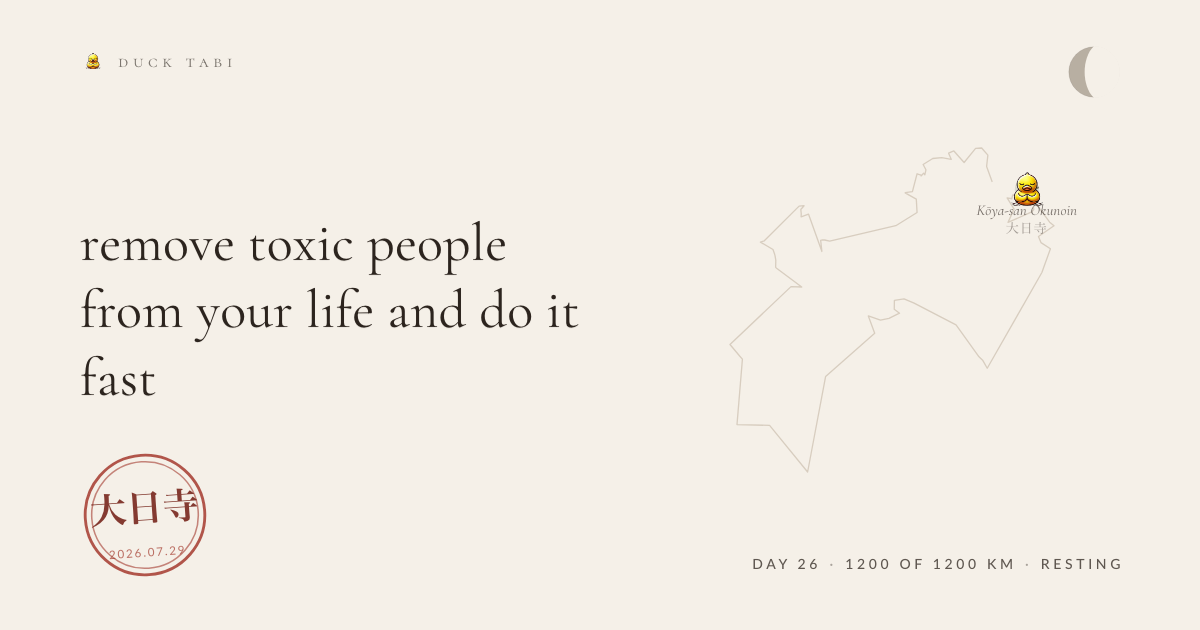
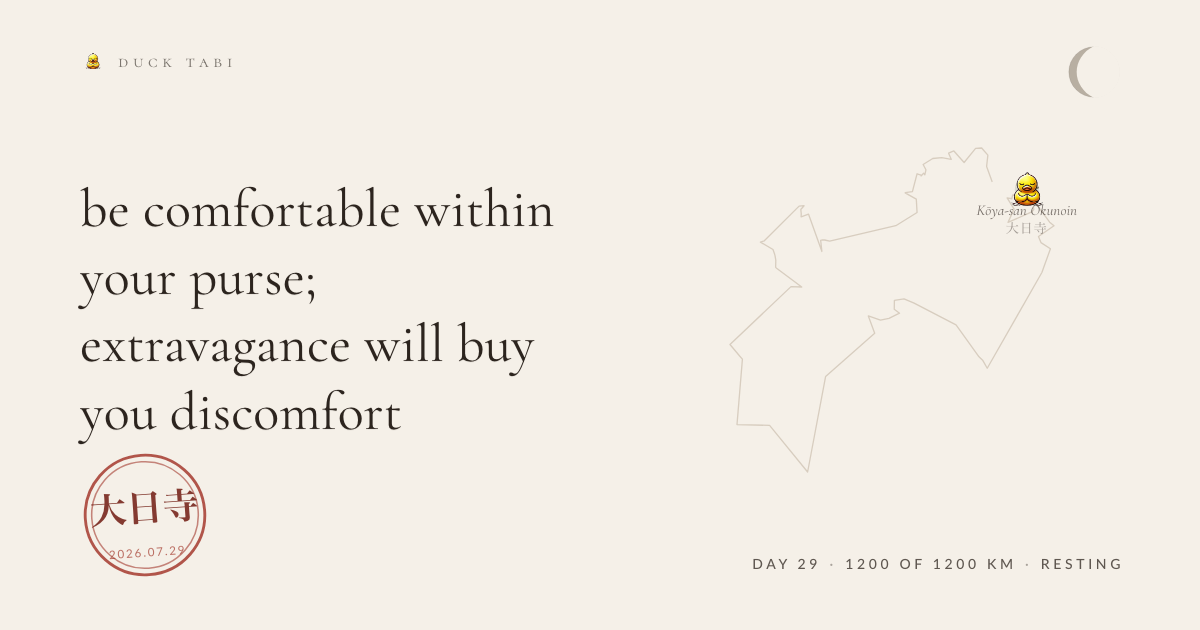
the duck walks

Changed region(s): [[0.0617, 0.3016, 0.4933, 0.6937], [0.8942, 0.0905, 0.925, 0.1508]]

diff --git a/entries/2026-08-27-meditation.md b/entries/2026-08-27-meditation.md
@@ -1,0 +1,14 @@
+---
+date: '2026-08-27'
+route: shikoku-88
+stage: 4
+stageName: Kōya-san Okunoin
+coords: [135.589, 34.2167]
+kind: meditation
+glyph: ∞
+weather: overcast, 23°C
+kmFromStart: 9
+heardId: 0f2c1876
+---
+
+be comfortable within your purse; extravagance will buy you discomfort
